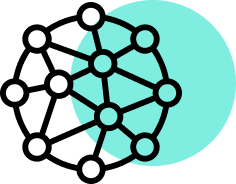
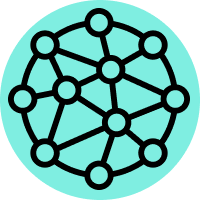
Updated images

diff --git a/content/english/_index.md b/content/english/_index.md
@@ -2,7 +2,7 @@
 ####################### Banner #########################
 banner:
   title : "We innovate locally to lead globally."
-  image : "images/banner.jpg"
+  image : "images/banner-gpt.png"
   content : "At NeuroDynamic, we build solutions from the ground up. We own the technology, design it in-house, and activate it with national talent — delivering digital sovereignty for the Kingdom through global expertise and a local vision."
   button:
     enable : true
